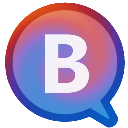
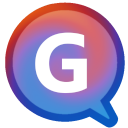
[FIX] handle Gemini rebranding

diff --git a/docs/privacy.html b/docs/privacy.html
@@ -69,11 +69,11 @@
 
       <h2>Reliance on External Services</h2>
 
-      <p>OptiSearch, Bing Chat (GPT-4) in Google, and Bard next to Google results ("the Extensions") 
+      <p>OptiSearch, Bing Chat (GPT-4) in Google, and Gemini next to Google results ("the Extensions") 
         rely on external services and libraries, including <a href="https://github.com/Glench/ExtPay">ExtPay.js</a>, which utilizes Stripe for 
         payment processing and PayPal for donation processing, to provide certain features and 
         functionalities, such as processing payments for premium memberships and accepting donations.
-         Additionally, the Extensions integrate with third-party applications, including Bing Chat, ChatGPT, and Google Bard, 
+         Additionally, the Extensions integrate with third-party applications, including Bing Chat, ChatGPT, and Google Gemini, 
          to enhance their functionalities and user experiences. While we make every effort to ensure the smooth operation of the Extensions, 
          it is important to understand that we may not have full control over these external services, and they may be subject to changes, disruptions, or discontinuation by their respective providers.
       </p>
@@ -83,7 +83,7 @@
       <p>The providers of external services and libraries, including ExtPay.js, Stripe, and PayPal, 
         may update their services, change their policies, or cease to operate at any time without prior notice. 
         These changes may impact the functionality of the Extensions, including premium membership payment 
-        processing, donation processing, and other related services. Similarly, third-party applications such as Bing Chat, ChatGPT, and Google Bard may introduce updates or changes that affect the integration with the Extensions.
+        processing, donation processing, and other related services. Similarly, third-party applications such as Bing Chat, ChatGPT, and Google Gemini may introduce updates or changes that affect the integration with the Extensions.
       </p>
 
       <h2>Liability and Continuity</h2>
@@ -93,7 +93,7 @@
 
       <h2>User Responsibility</h2>
 
-      <p>Users of the Extensions are responsible for reviewing the terms and policies of external services, such as Stripe and PayPal, and third-party applications, including Bing Chat, ChatGPT, and Google Bard, that they interact with through the Extensions. Users should also ensure that they comply with the terms and conditions of these services and applications.
+      <p>Users of the Extensions are responsible for reviewing the terms and policies of external services, such as Stripe and PayPal, and third-party applications, including Bing Chat, ChatGPT, and Google Gemini, that they interact with through the Extensions. Users should also ensure that they comply with the terms and conditions of these services and applications.
       </p>
       
       <p>The links to the terms and policies of those services are listed below:</p>
@@ -102,7 +102,7 @@
         <li><a href="https://www.paypal.com/webapps/mpp/ua/privacy-full">PayPal</a></li>
         <li><a href="https://openai.com/privacy/">ChatGPT</a></li>
         <li><a href="https://www.microsoft.com/en-us/servicesagreement/">Bing Chat</a></li>
-        <li><a href="https://support.google.com/bard/answer/13594961">Google Bard</a></li>
+        <li><a href="https://support.google.com/bard/answer/13594961">Google Gemini</a></li>
       </ul>
 
       <h2>Contact</h2>
@@ -111,7 +111,7 @@
         <a href="mailto:info.optisearch@gmail.com">info.optisearch@gmail.com</a>.
       </p>
       <p>
-        September 2023
+        February 2024
       </p>
     </div>
   </body>

diff --git a/src/chat/bard_session.js b/src/chat/bard_session.js
@@ -1,7 +1,7 @@
 class BardSession extends ChatSession {
   properties = {
-    name: "Bard",
-    link: "https://bard.google.com",
+    name: "Gemini",
+    link: "https://gemini.google.com",
     icon: "src/images/bard.png",
     local_icon: "bard.png",
     href: this.urlPrefix,
@@ -24,7 +24,7 @@ class BardSession extends ChatSession {
     return "SAVE_BARD";
   }
   get urlPrefix() {
-    return `https://bard.google.com/u/${Context.get("googleAccount")}`;
+    return `https://gemini.google.com/u/${Context.get("googleAccount")}`;
   }
 
   constructor() {
@@ -100,7 +100,7 @@ class BardSession extends ChatSession {
       res.hasNotBard = false;
       return res;
     };
-    const url = `https://bard.google.com/u/${user_id}/`;
+    const url = `https://gemini.google.com/u/${user_id}/`;
     const r = await bgFetch(url, { credentials: "include", redirect: "manual" });
     if (r.status !== undefined && r.status !== 200) {
       switch (r.status) {
@@ -111,7 +111,7 @@ class BardSession extends ChatSession {
             code: "BARD_CAPTCHA",
             url,
             text: _t("Too many requests. Please solve the captcha and refresh"),
-            button: _t("Solve Google Bard captcha"),
+            button: _t("Solve Google Gemini captcha"),
           };
         default:
           throw BardSession.errors.session;
@@ -193,10 +193,10 @@ class BardSession extends ChatSession {
       ${
         isError
           ? _t(
-              'This Google account does not have access to Bard yet, please visit <a href="$url$">this link</a> to activate it or choose another Google account for Bard',
+              'This Google account does not have access to Gemini yet, please visit <a href="$url$">this link</a> to activate it or choose another Google account for Gemini',
               this.urlPrefix
             )
-          : _t("Choose a Google account for Bard")
+          : _t("Choose a Google account for Gemini")
       }
       <br>
       <select name="google-account" class="chatgpt-button">

diff --git a/src/popup/popup.js b/src/popup/popup.js
@@ -158,7 +158,7 @@
       }, sublist);
       el('a', {
         className: 'ad',
-        innerHTML: _t('Get answers from <strong>$AI$</strong>', 'Google Bard'),
+        innerHTML: _t('Get answers from <strong>$AI$</strong>', 'Google Gemini'),
         href: webstores['bard'],
       }, sublist);
     }
@@ -175,7 +175,7 @@
   if (WhichExtension === 'bingchat') {
     el('a', {
       className: 'ad',
-      innerHTML: _t('I want answers from <strong>$AI$</strong> too!', 'Google Bard'),
+      innerHTML: _t('I want answers from <strong>$AI$</strong> too!', 'Google Gemini'),
       href: webstores['bard'],
     }, optionsContainer);
   }

diff --git a/src/settings.js b/src/settings.js
@@ -2,7 +2,7 @@ const WhichExtension = (() => {
   const extensionName = chrome.runtime.getManifest().name;
   if (extensionName.includes('Bing'))
     return 'bingchat';
-  if (extensionName.includes('Bard'))
+  if (extensionName.includes('Gemini'))
     return 'bard';
   return 'optisearch';
 })();
@@ -89,7 +89,7 @@ switch(WhichExtension) {
   case 'bard':
     Settings['AI Assitant']['googleAccount'] = {
       name: "Google account ID",
-      title: 'Google account number to use with Bard',
+      title: 'Google account number to use with Gemini',
       default: 0,
       min: 0,
       active: false,

diff --git a/README.md b/README.md
@@ -1,8 +1,8 @@
-# OptiSearch ｜ Bing Chat (GPT-4) in Google ｜ Bard next to Google results
+# OptiSearch ｜ Bing Chat (GPT-4) in Google ｜ Gemini next to Google results
 
 ![License](https://img.shields.io/github/license/dj0ulo/optisearch)
 
-This repository contains the code of **OptiSearch**, **Bing Chat (GPT-4) in Google** and **Bard next to Google results** browser extensions. They share the same codebase core. 
+This repository contains the code of **OptiSearch**, **Bing Chat (GPT-4) in Google** and **Gemini next to Google results** browser extensions. They share the same codebase core. 
 
 ### <img alt="OptiSearch icon" src="./icons/optisearch/icon_128.png" width="24" height="24"> OptiSearch
 ![License](https://img.shields.io/chrome-web-store/users/bbojmeobdaicehcopocnfhaagefleiae?label=Chrome%20Users) ![License](https://img.shields.io/amo/users/optisearch?label=Firefox%20Users)
@@ -22,10 +22,10 @@ Displays the answer from Bing Chat AI alongside search engine results.
 
 [Install from Mozilla Add-on Store](https://addons.mozilla.org/fr/firefox/addon/bing-chat-gpt-4-in-google/)
 
-### <img alt="Bard next to Google results" src="./icons/bard/icon_128.png" width="24" height="24"> Bard next to Google results
+### <img alt="Gemini next to Google results" src="./icons/bard/icon_128.png" width="24" height="24"> Gemini next to Google results
 ![License](https://img.shields.io/chrome-web-store/users/pkdmfoabhnkpkcacnmgilaeghiggdbgf?label=Chrome%20Users) ![License](https://img.shields.io/amo/users/bard-for-search-engines?label=Firefox%20Users)
 
-Displays the answer from Google Bard alongside search engine results.
+Displays the answer from Google Gemini alongside search engine results.
 
 [Install from Chrome Web Store](https://chrome.google.com/webstore/detail/bard-for-search-engines/pkdmfoabhnkpkcacnmgilaeghiggdbgf)
 
@@ -53,7 +53,7 @@ Google, Bing, Baidu, DuckDuckGo, Ecosia, Brave Search
     ```
     node build.mjs optisearch -b DIR
     ```
-    E.g. to copy **Bard next to Google results** sources for Firefox in `build/bard`
+    E.g. to copy **Gemini next to Google results** sources for Firefox in `build/bard`
     ```
     node build.mjs bard -bf
     ```
